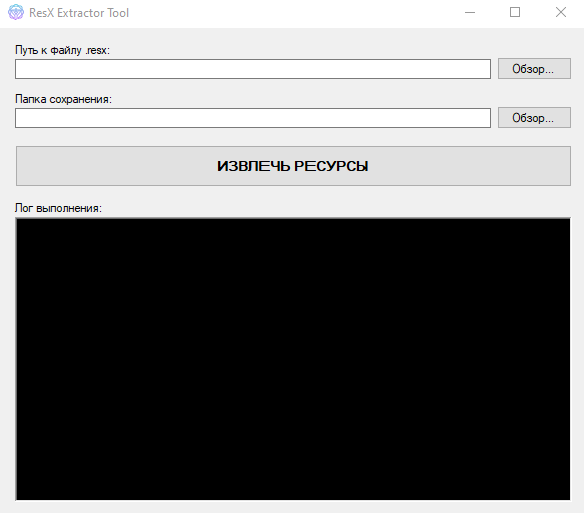
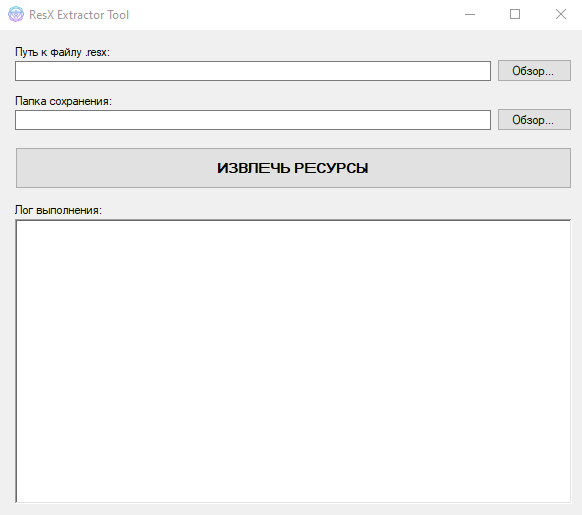
Color replacement

diff --git a/Resource extractor/Form1.cs b/Resource extractor/Form1.cs
@@ -64,8 +64,8 @@ namespace Resource_extractor
 
             if (Directory.Exists(outputDir) && Directory.GetFileSystemEntries(outputDir).Length > 0)
             {
-                Log($"ПРОПУСК: Папка уже содержит файлы: {Path.GetFileName(outputDir)}", Color.Orange);
-                Log("Ресурсы не будут извлечены повторно.", Color.Orange);
+                Log($"ПРОПУСК: Папка уже содержит файлы: {Path.GetFileName(outputDir)}", Color.DarkOrange);
+                Log("Ресурсы не будут извлечены повторно.", Color.DarkOrange);
                 System.Diagnostics.Process.Start("explorer.exe", outputDir);
                 return;
             }
@@ -74,12 +74,12 @@ namespace Resource_extractor
             {
                 btnExtract.Enabled = false;
                 Directory.CreateDirectory(outputDir);
-                Log($"Старт извлечения из: {Path.GetFileName(resxPath)}", Color.Cyan);
+                Log($"Старт извлечения из: {Path.GetFileName(resxPath)}", Color.Blue);
 
                 ExtractAll(resxPath, outputDir);
 
-                Log("---------------------------", Color.White);
-                Log("ГОТОВО! Операция завершена.", Color.Lime);
+                Log("---------------------------", Color.Black);
+                Log("ГОТОВО! Операция завершена.", Color.Green);
 
                 System.Diagnostics.Process.Start("explorer.exe", outputDir);
             }
@@ -125,12 +125,12 @@ namespace Resource_extractor
                         try
                         {
                             img.Save(savePath, ImageFormat.Png);
-                            Log($"[IMG] Сохранено: {safeName}.png", Color.LightGray);
+                            Log($"[IMG] Сохранено: {safeName}.png", Color.DimGray);
                             countImages++;
                         }
                         catch (Exception ex)
                         {
-                            Log($"[IMG Error] Не удалось сохранить {key}: {ex.Message}", Color.Orange);
+                            Log($"[IMG Error] Не удалось сохранить {key}: {ex.Message}", Color.DarkOrange);
                         }
                     }
                     else if (value is Icon icon)
@@ -142,19 +142,19 @@ namespace Resource_extractor
                             {
                                 icon.Save(fs);
                             }
-                            Log($"[ICON] Сохранено: {safeName}.ico", Color.LightGray);
+                            Log($"[ICON] Сохранено: {safeName}.ico", Color.DimGray);
                             countIcons++;
                         }
                         catch (Exception ex)
                         {
-                            Log($"[ICON Error] {key}: {ex.Message}", Color.Orange);
+                            Log($"[ICON Error] {key}: {ex.Message}", Color.DarkOrange);
                         }
                     }
                     else if (value is byte[] bytes)
                     {
                         string savePath = Path.Combine(dir, safeName + ".bin");
                         File.WriteAllBytes(savePath, bytes);
-                        Log($"[BIN] Сохранено: {safeName}.bin", Color.Yellow);
+                        Log($"[BIN] Сохранено: {safeName}.bin", Color.Teal);
                         countOther++;
                     }
                     else if (value is Stream stream)
@@ -167,12 +167,12 @@ namespace Resource_extractor
                         {
                             stream.CopyTo(fs);
                         }
-                        Log($"[AUDIO] Сохранен поток: {safeName}.wav", Color.Yellow);
+                        Log($"[AUDIO] Сохранен поток: {safeName}.wav", Color.Teal);
                         countOther++;
                     }
                     else
                     {
-                        Log($"[UNKNOWN] Пропущен тип: {value.GetType().Name} (Ключ: {key})", Color.Magenta);
+                        Log($"[UNKNOWN] Пропущен тип: {value.GetType().Name} (Ключ: {key})", Color.Purple);
                     }
                 }
             }
@@ -181,10 +181,10 @@ namespace Resource_extractor
             {
                 string txtPath = Path.Combine(dir, "_AllStrings.txt");
                 File.WriteAllText(txtPath, stringResources.ToString());
-                Log($"[TEXT] Все строки сохранены в: _AllStrings.txt ({countStrings} шт.)", Color.Green);
+                Log($"[TEXT] Все строки сохранены в: _AllStrings.txt ({countStrings} шт.)", Color.DarkGreen);
             }
 
-            Log($"\nСтатистика:\nКартинки: {countImages}\nИконки: {countIcons}\nТекст: {countStrings}\nДругое: {countOther}", Color.White);
+            Log($"\nСтатистика:\nКартинки: {countImages}\nИконки: {countIcons}\nТекст: {countStrings}\nДругое: {countOther}", Color.Black);
         }
 
         private string CleanFileName(string name)
@@ -203,8 +203,8 @@ namespace Resource_extractor
 
             rtbLog.SelectionColor = color;
             rtbLog.AppendText(msg + "\n");
-            rtbLog.SelectionColor = rtbLog.ForeColor;
 
+            rtbLog.SelectionColor = Color.Black;
             rtbLog.ScrollToCaret();
         }
     }

diff --git a/Resource extractor/Form1.Designer.cs b/Resource extractor/Form1.Designer.cs
@@ -116,9 +116,9 @@
             this.rtbLog.Anchor = ((System.Windows.Forms.AnchorStyles)((((System.Windows.Forms.AnchorStyles.Top | System.Windows.Forms.AnchorStyles.Bottom) 
             | System.Windows.Forms.AnchorStyles.Left) 
             | System.Windows.Forms.AnchorStyles.Right)));
-            this.rtbLog.BackColor = System.Drawing.Color.Black;
+            this.rtbLog.BackColor = System.Drawing.Color.White;
             this.rtbLog.Font = new System.Drawing.Font("Consolas", 9F, System.Drawing.FontStyle.Regular, System.Drawing.GraphicsUnit.Point, ((byte)(204)));
-            this.rtbLog.ForeColor = System.Drawing.Color.Lime;
+            this.rtbLog.ForeColor = System.Drawing.Color.Black;
             this.rtbLog.Location = new System.Drawing.Point(15, 189);
             this.rtbLog.Name = "rtbLog";
             this.rtbLog.ReadOnly = true;